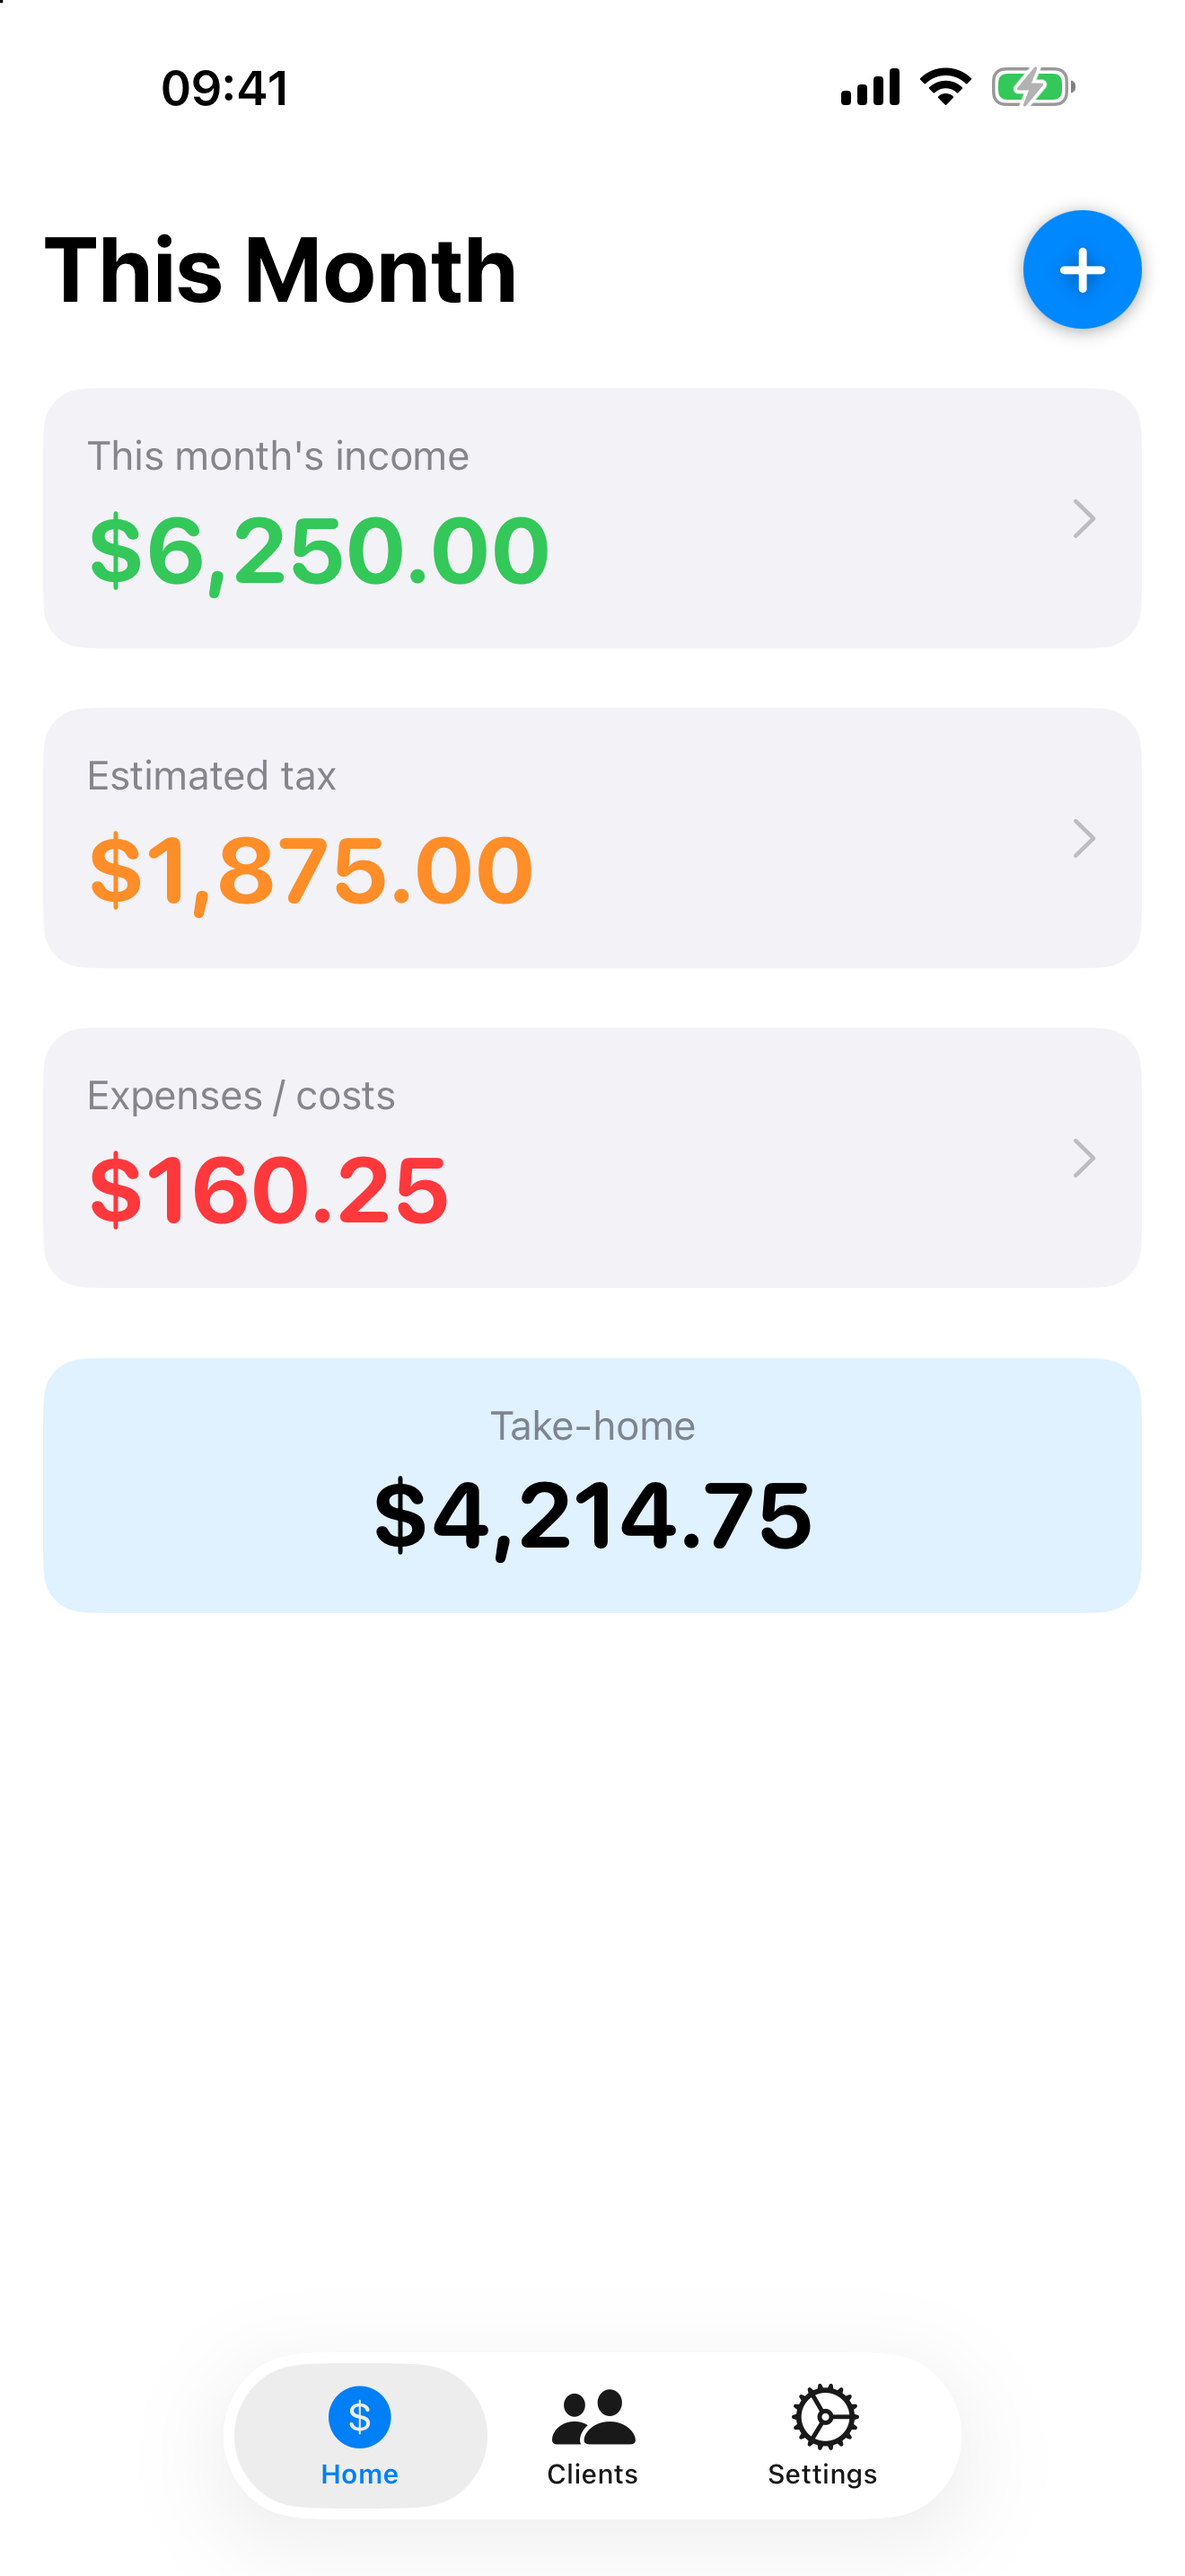
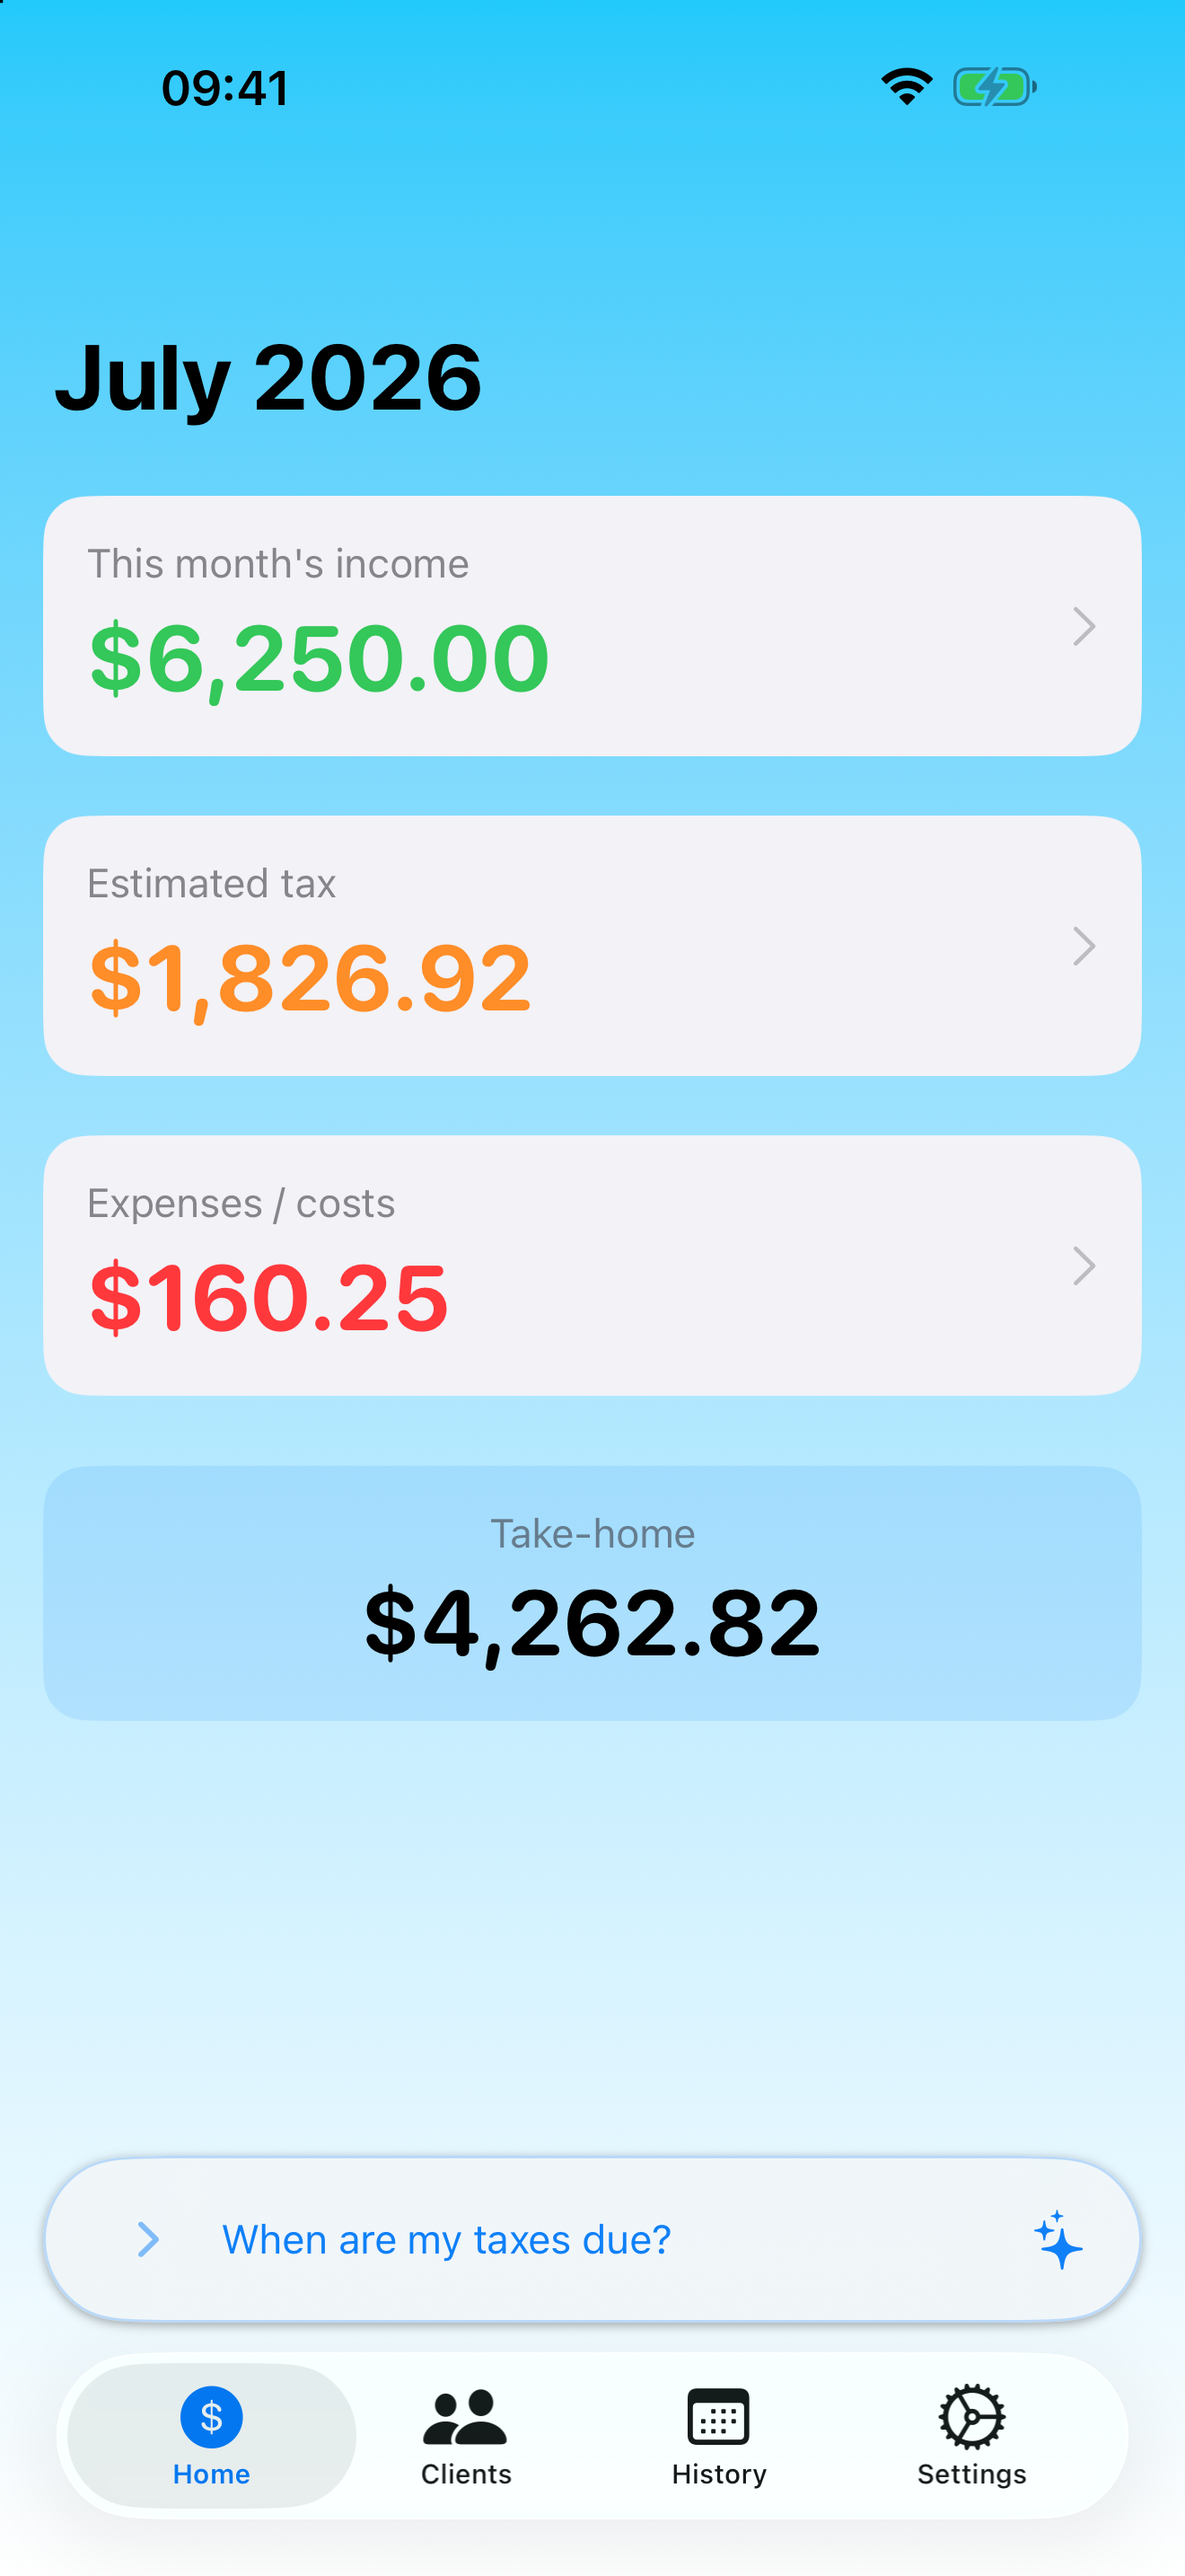
Update screenshots for the AI finance assistant + Tax Time redesign
Re-captures reflect the merged feat/ai-finance-assistant work: the on-device
"Ask your finances" bar, the redone Tax Time summary, and the History tab.
Adds a new screen-ai.png to the site's feature gallery.

diff --git a/index.html b/index.html
@@ -229,6 +229,10 @@
           <p>This month's income, tax, and real take-home — at a glance.</p>
         </div>
         <div class="shot">
+          <img src="assets/screen-ai.png" alt="Ask your finances: an on-device assistant answering 'What's my estimated tax this quarter?'" />
+          <p>Ask a question, get a straight answer — entirely on-device.</p>
+        </div>
+        <div class="shot">
           <img src="assets/screen-setaside.png" alt="Set Aside screen with the amount to transfer and a tax-rate slider" />
           <p>Know the exact amount to set aside for taxes right now.</p>
         </div>
